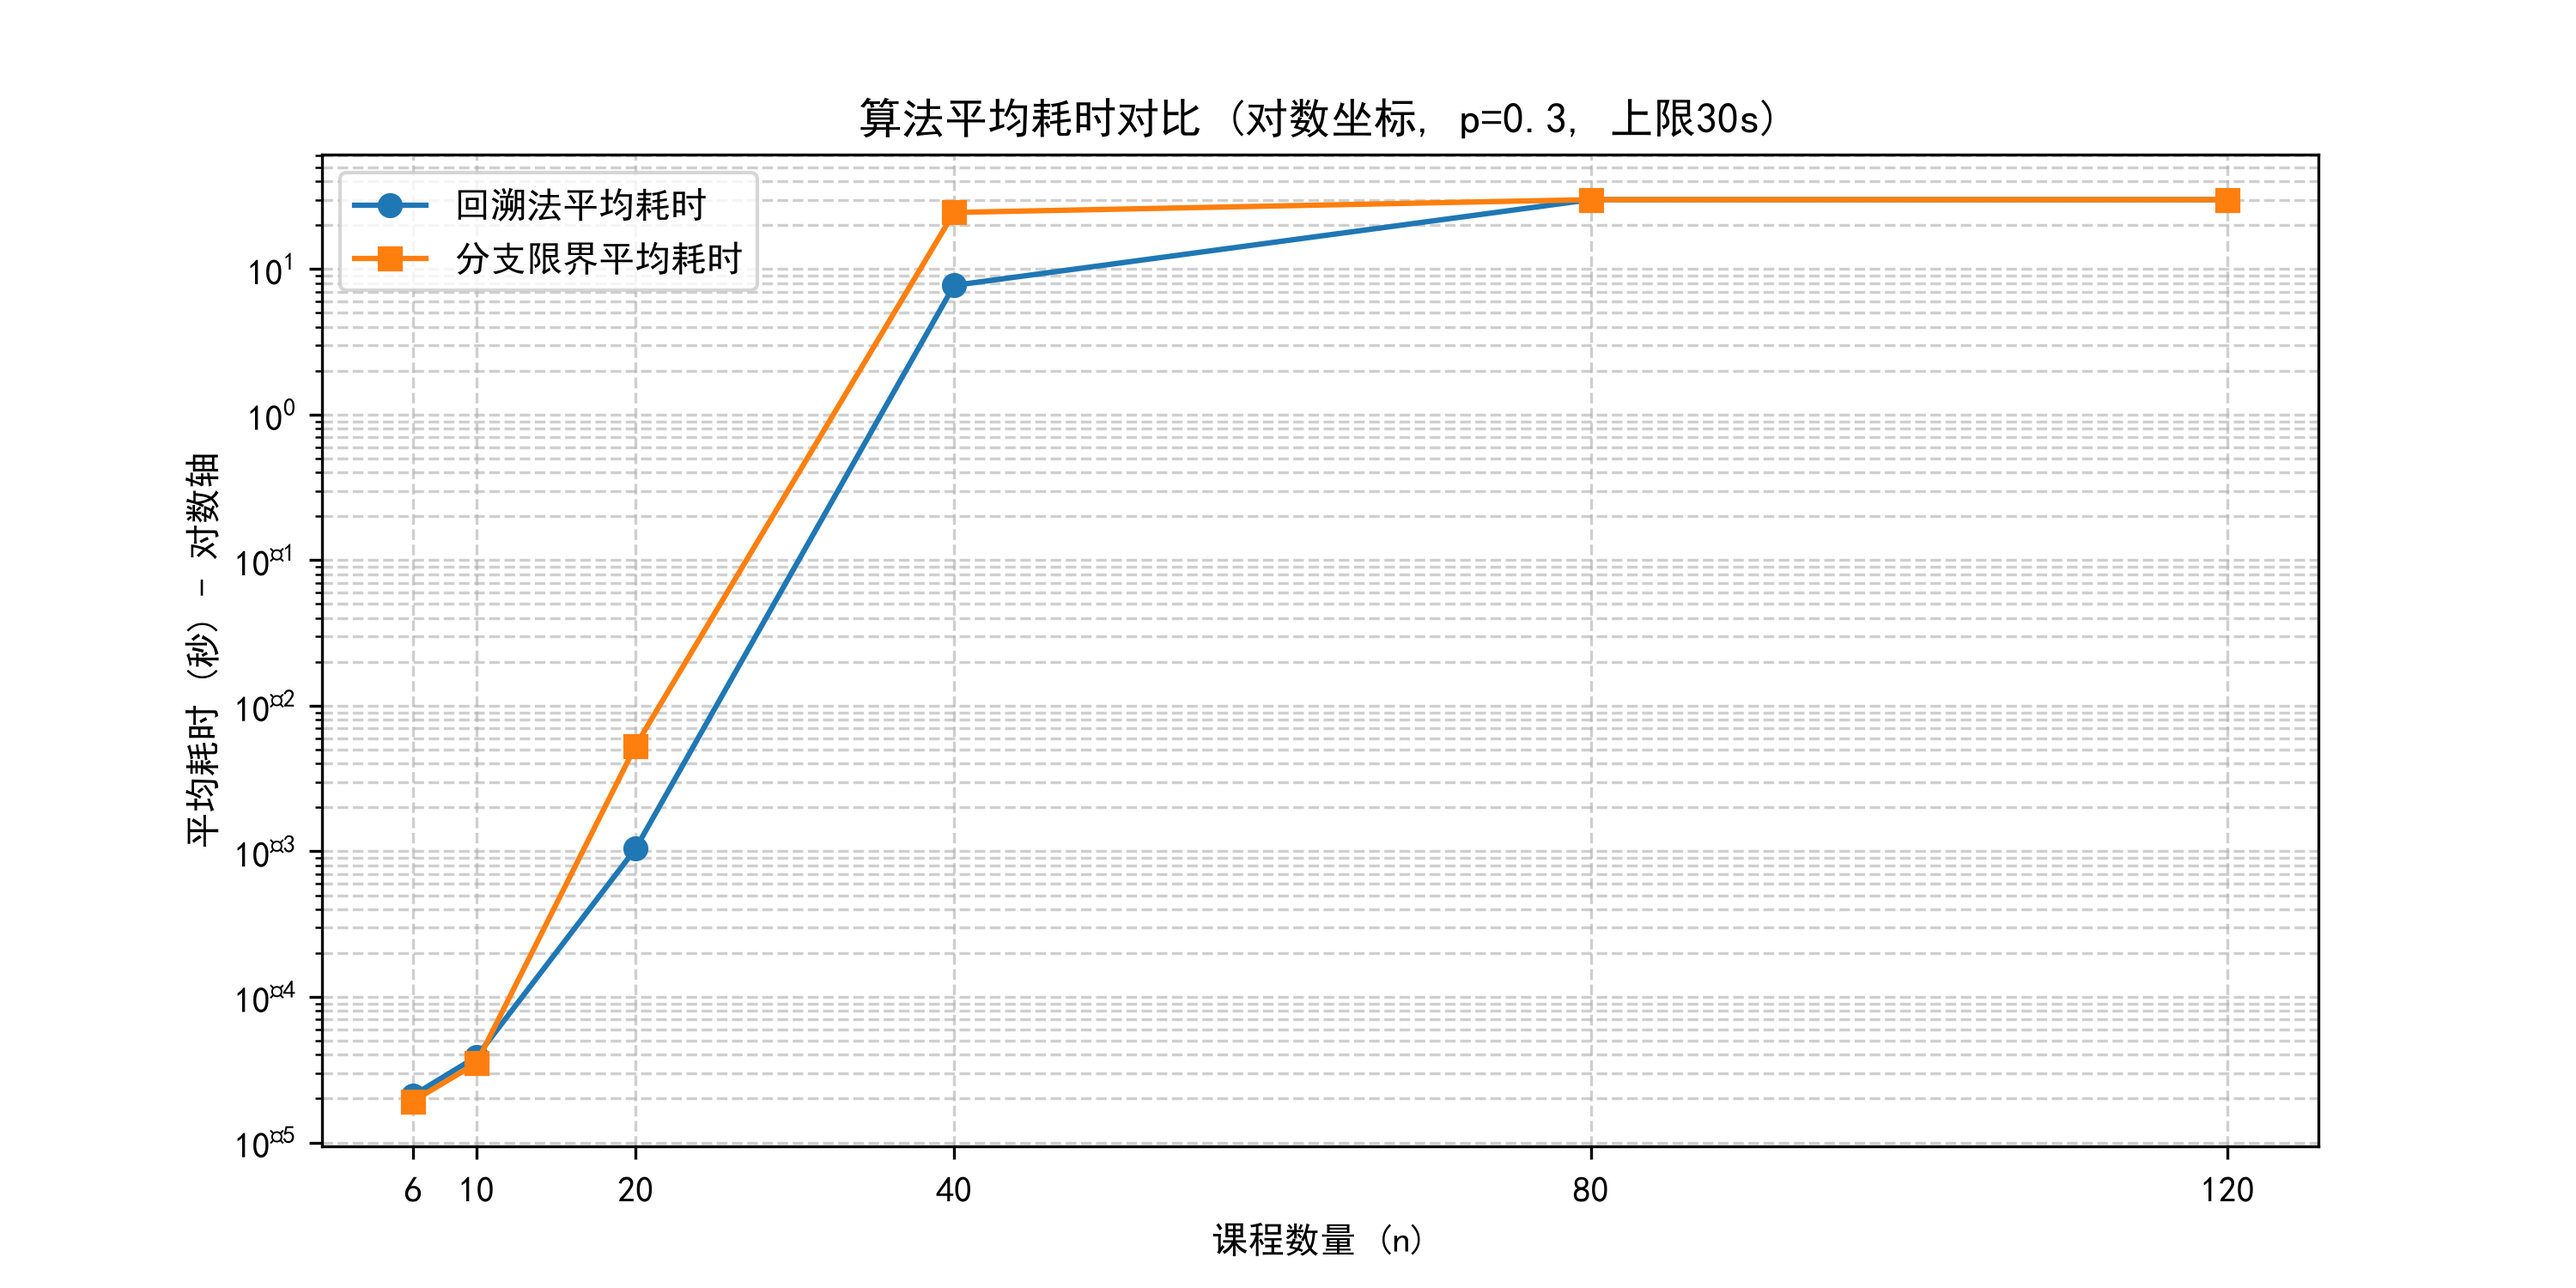
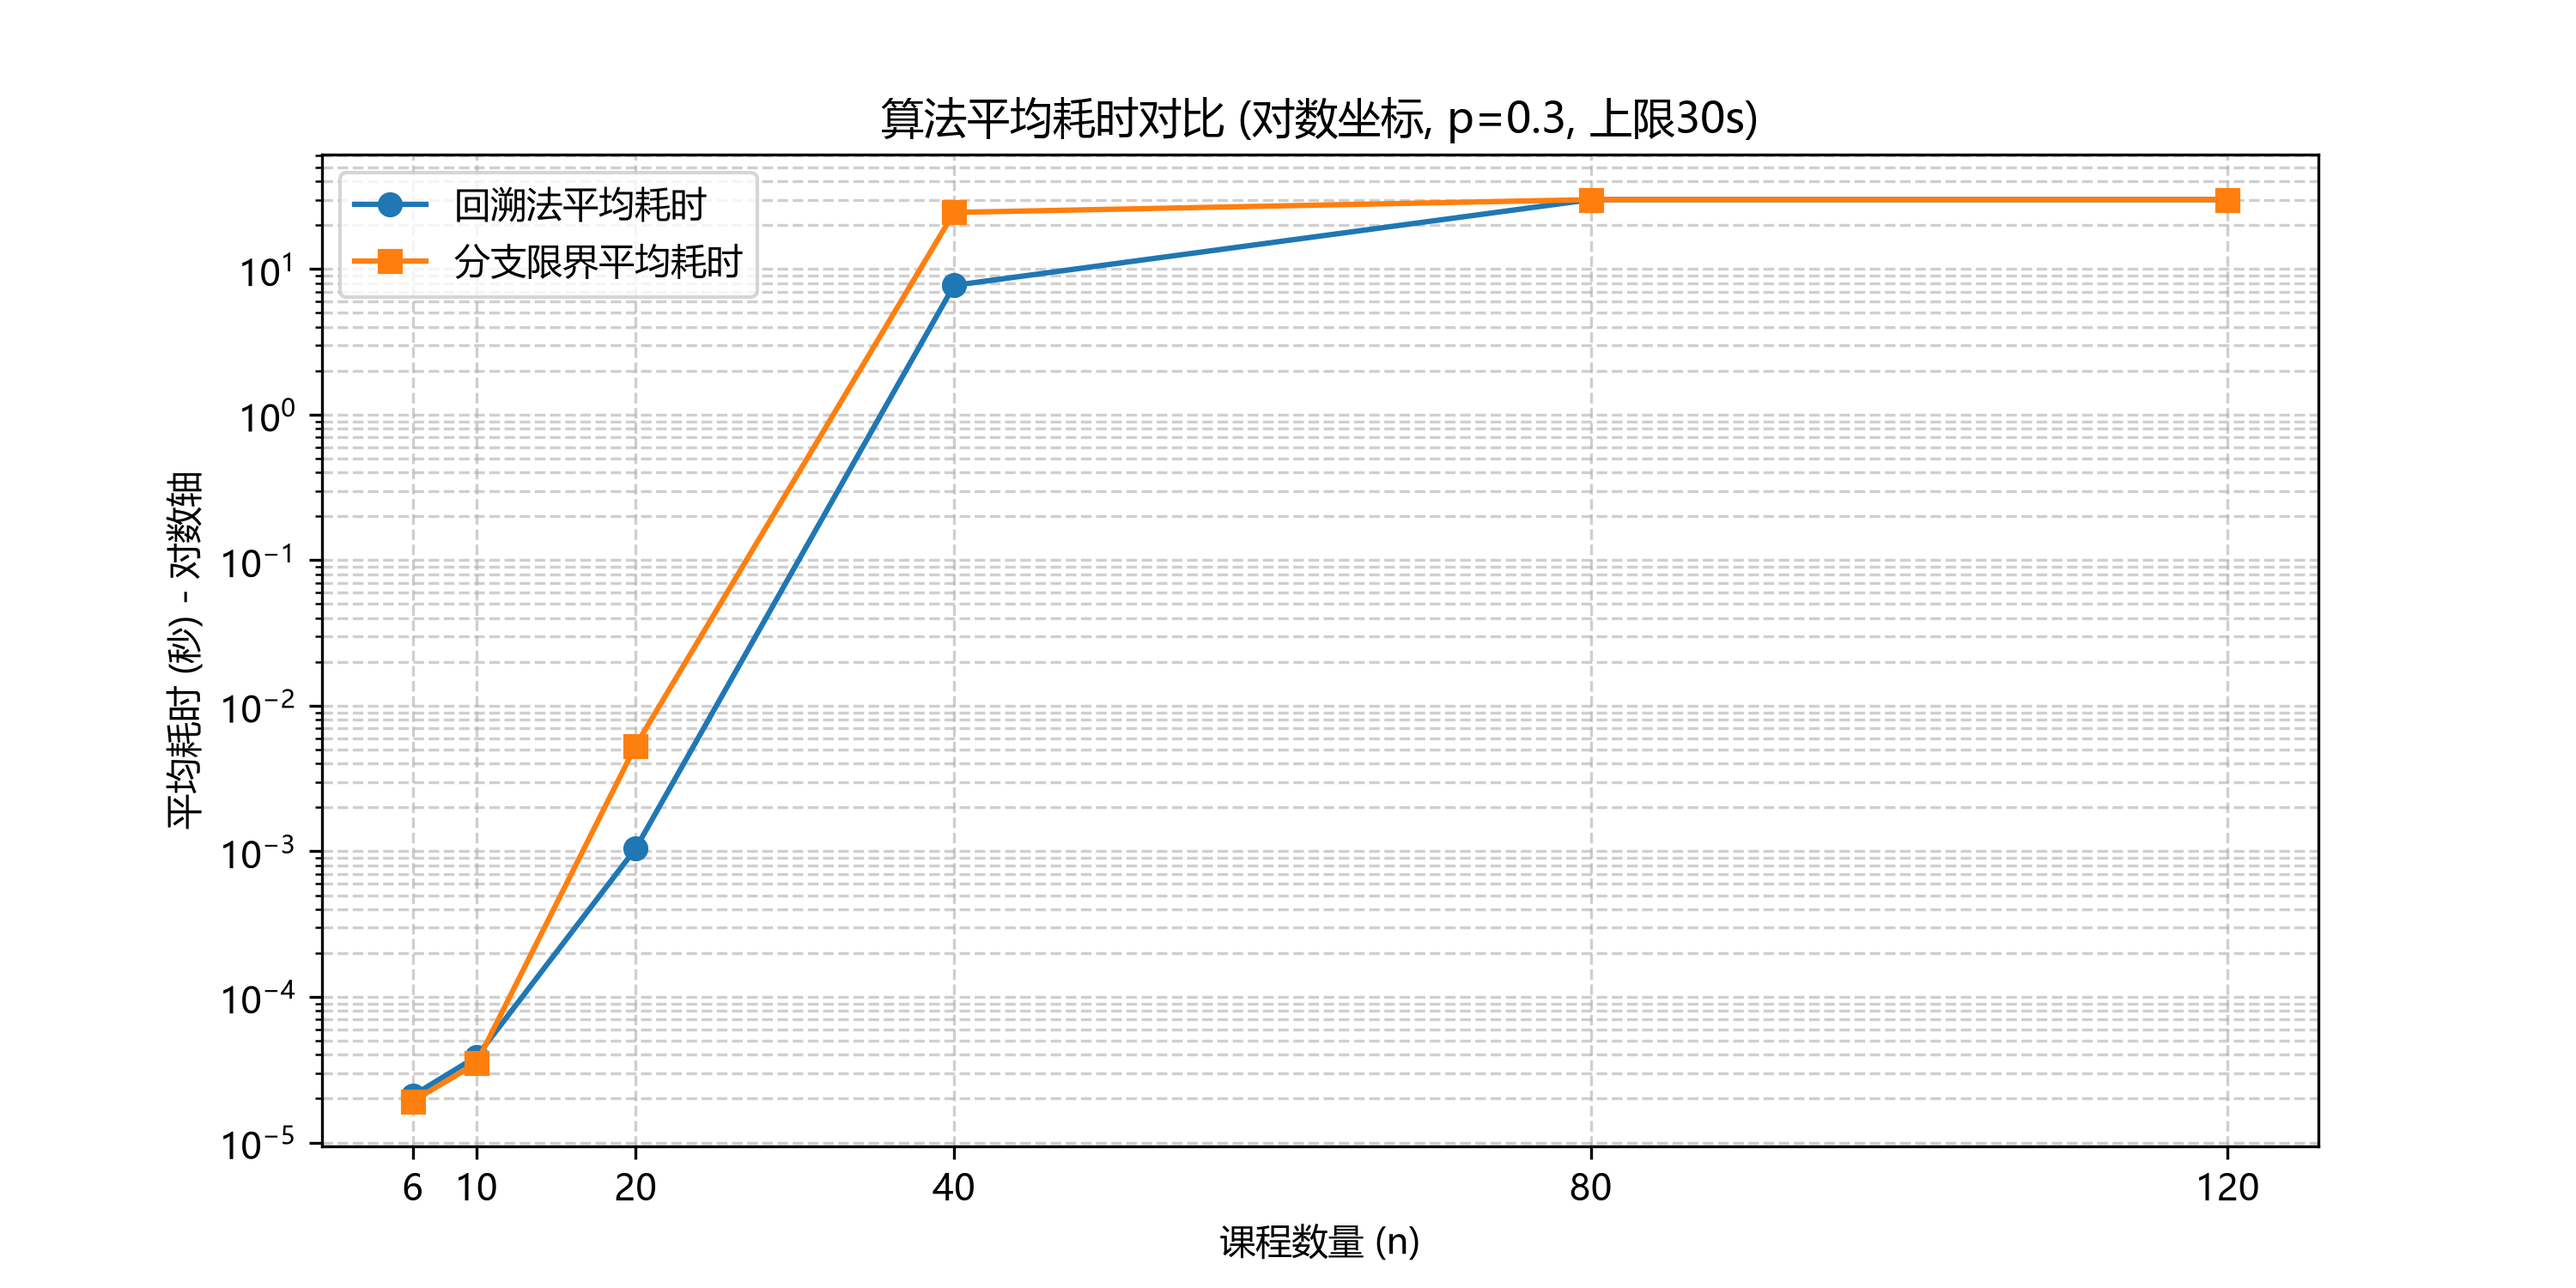
fix: 修复画图中文字体缺失问题

diff --git a/src/visualize.py b/src/visualize.py
@@ -3,7 +3,7 @@ from src.io_utils import read_graph, build_adj_matrix
 from src.backtrack import color_backtrack
 
 # 设置中文字体
-plt.rcParams['font.sans-serif'] = ['SimHei']
+plt.rcParams['font.sans-serif'] = ['Microsoft YaHei', 'SimHei', 'sans-serif']
 plt.rcParams['axes.unicode_minus'] = False
 
 

diff --git a/experiments/plot.py b/experiments/plot.py
@@ -2,7 +2,7 @@ import csv
 import statistics
 import matplotlib.pyplot as plt
 
-plt.rcParams['font.sans-serif'] = ['SimHei']
+plt.rcParams['font.sans-serif'] = ['Microsoft YaHei', 'SimHei', 'sans-serif']
 plt.rcParams['axes.unicode_minus'] = False
 
 data = {}
